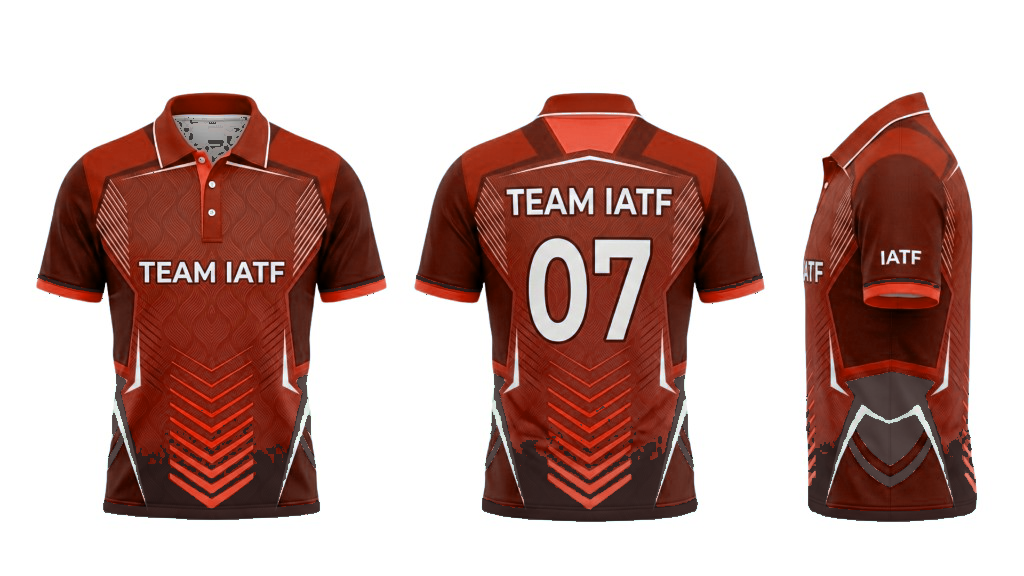
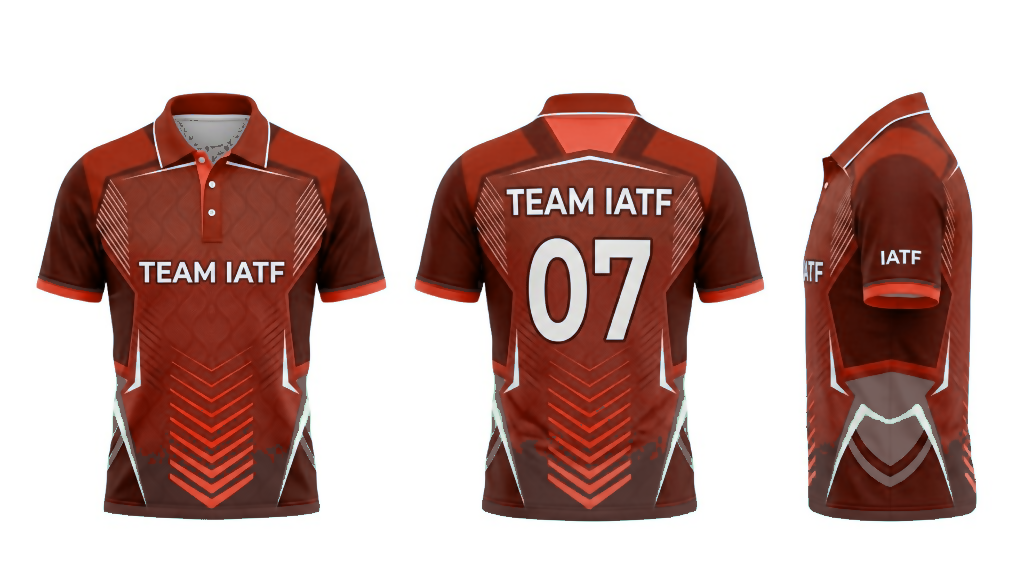
Jersey TT recolor: softer masks + bilateral denoise to fix hem/collar artifacts
Made-with: Cursor

diff --git a/scripts/recolor_jersey_tt.py b/scripts/recolor_jersey_tt.py
@@ -1,6 +1,7 @@
 """
-Recolor jersey mockup to Trinidad & Tobago national palette (red, black, white)
-without changing layout, shapes, or text geometry — HSV remapping only.
+Recolor jersey mockup to Trinidad & Tobago national palette (red, black, white).
+HSV remapping with softer masks + mild denoise to reduce hem/collar artifacts
+from hard thresholding.
 """
 from __future__ import annotations
 
@@ -20,31 +21,30 @@ def recolor_tt_national(bgr: np.ndarray) -> np.ndarray:
     b, g, r = cv2.split(bgr.astype(np.float32))
     mb = np.max(np.stack([b, g, r], axis=-1), axis=-1)
     mn = np.min(np.stack([b, g, r], axis=-1), axis=-1)
-    # Preserve near-neutral pixels (white text, bright buttons, paper-white BG)
-    neutral = (mb - mn < 28) & (mb > 185)
+    chroma = mb - mn
+
+    # Wider "neutral" = collar interior, white text, buttons, paper BG — avoids mottled collar
+    neutral = (chroma < 42) & (mb > 148)
 
     h2, s2, v2 = h.copy(), s.copy(), v.copy()
 
-    # OpenCV H: 0-179. Blue ~100-125, Teal/cyan/green ~40-100
-    blue = (~neutral) & (h >= 92) & (h <= 140)
-    teal_green = (~neutral) & (h >= 38) & (h < 92)
-    purple = (~neutral) & (h > 140) & (h <= 175)
+    blue = (~neutral) & (h >= 90) & (h <= 142)
+    teal_green = (~neutral) & (h >= 36) & (h < 92)
+    purple = (~neutral) & (h > 142) & (h <= 176)
 
-    # Blues -> vivid TT red (keep shading via V/S)
-    h2[blue] = 4.0 + (h[blue] - 92) * 0.08  # slight variation
-    h2[blue] = np.clip(h2[blue], 0, 12)
-    s2[blue] = np.clip(s[blue] * 1.12 + 8, 0, 255)
-    v2[blue] = np.clip(v[blue] * 1.02, 0, 255)
+    # Blues -> TT red (slightly softer saturation bump)
+    h2[blue] = np.clip(4.0 + (h[blue] - 90) * 0.06, 0, 14)
+    s2[blue] = np.clip(s[blue] * 1.08 + 6, 0, 255)
+    v2[blue] = np.clip(v[blue] * 1.01, 0, 255)
 
-    # Teal / green accents -> black / near-black (keep a hint of red undertone)
-    h2[teal_green] = 3.0
-    s2[teal_green] = np.clip(s[teal_green] * 0.45 + 15, 0, 120)
-    v2[teal_green] = np.clip(v[teal_green] * 0.42, 0, 95)
+    # Teal/green -> dark (less crushing = less "static" noise at hem)
+    h2[teal_green] = 4.0
+    s2[teal_green] = np.clip(s[teal_green] * 0.52 + 12, 0, 130)
+    v2[teal_green] = np.clip(v[teal_green] * 0.58 + 10, 32, 118)
 
-    # Purple stray -> deep red
     h2[purple] = 172.0
-    s2[purple] = np.clip(s[purple] * 1.05, 0, 255)
-    v2[purple] = np.clip(v[purple] * 0.92, 0, 255)
+    s2[purple] = np.clip(s[purple] * 1.03, 0, 255)
+    v2[purple] = np.clip(v[purple] * 0.94, 0, 255)
 
     h2[neutral] = h[neutral]
     s2[neutral] = s[neutral]
@@ -58,7 +58,11 @@ def recolor_tt_national(bgr: np.ndarray) -> np.ndarray:
         ],
         axis=-1,
     )
-    return cv2.cvtColor(out_hsv, cv2.COLOR_HSV2BGR)
+    out = cv2.cvtColor(out_hsv, cv2.COLOR_HSV2BGR)
+
+    # Edge-preserving denoise: reduces speckle at hue boundaries / hem without AI redraw
+    out = cv2.bilateralFilter(out, d=5, sigmaColor=55, sigmaSpace=55)
+    return out
 
 
 def main() -> None:
@@ -73,7 +77,7 @@ def main() -> None:
         sys.exit(1)
     out = recolor_tt_national(bgr)
     outp.parent.mkdir(parents=True, exist_ok=True)
-    cv2.imwrite(str(outp), out, [cv2.IMWRITE_PNG_COMPRESSION, 9])
+    cv2.imwrite(str(outp), out, [cv2.IMWRITE_PNG_COMPRESSION, 6])
     print(f"Wrote {outp}")
 
 
